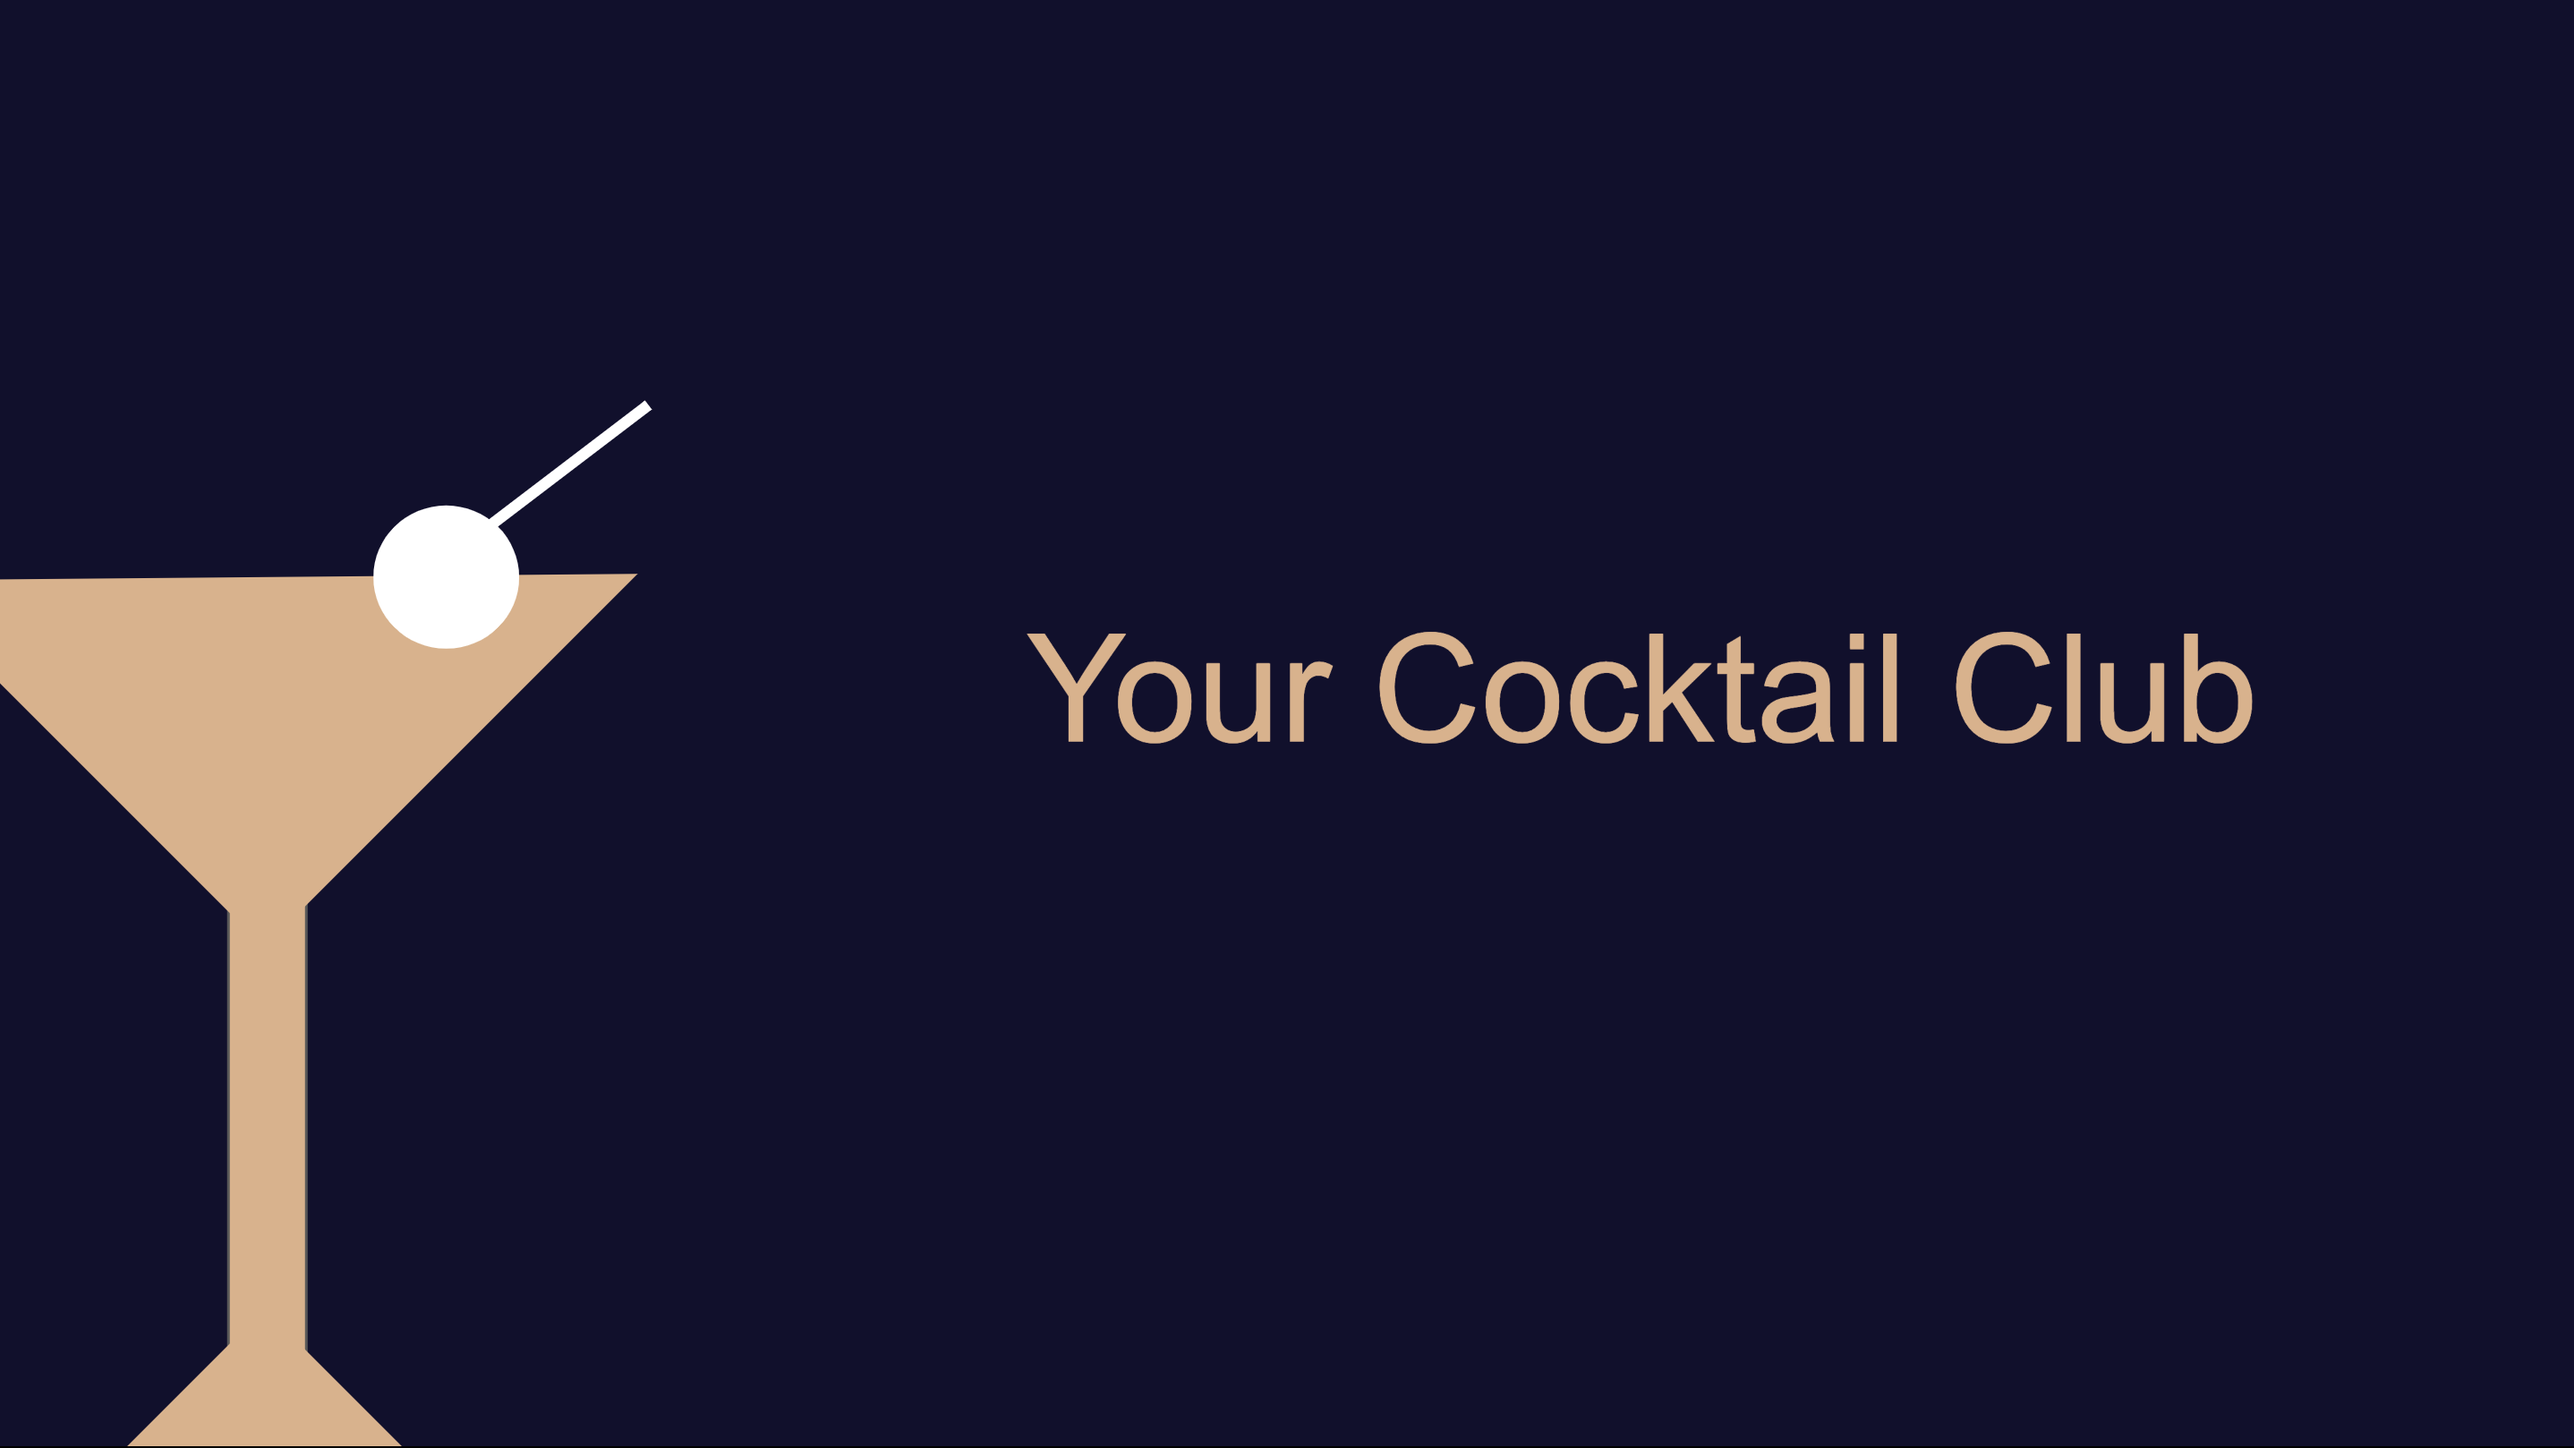
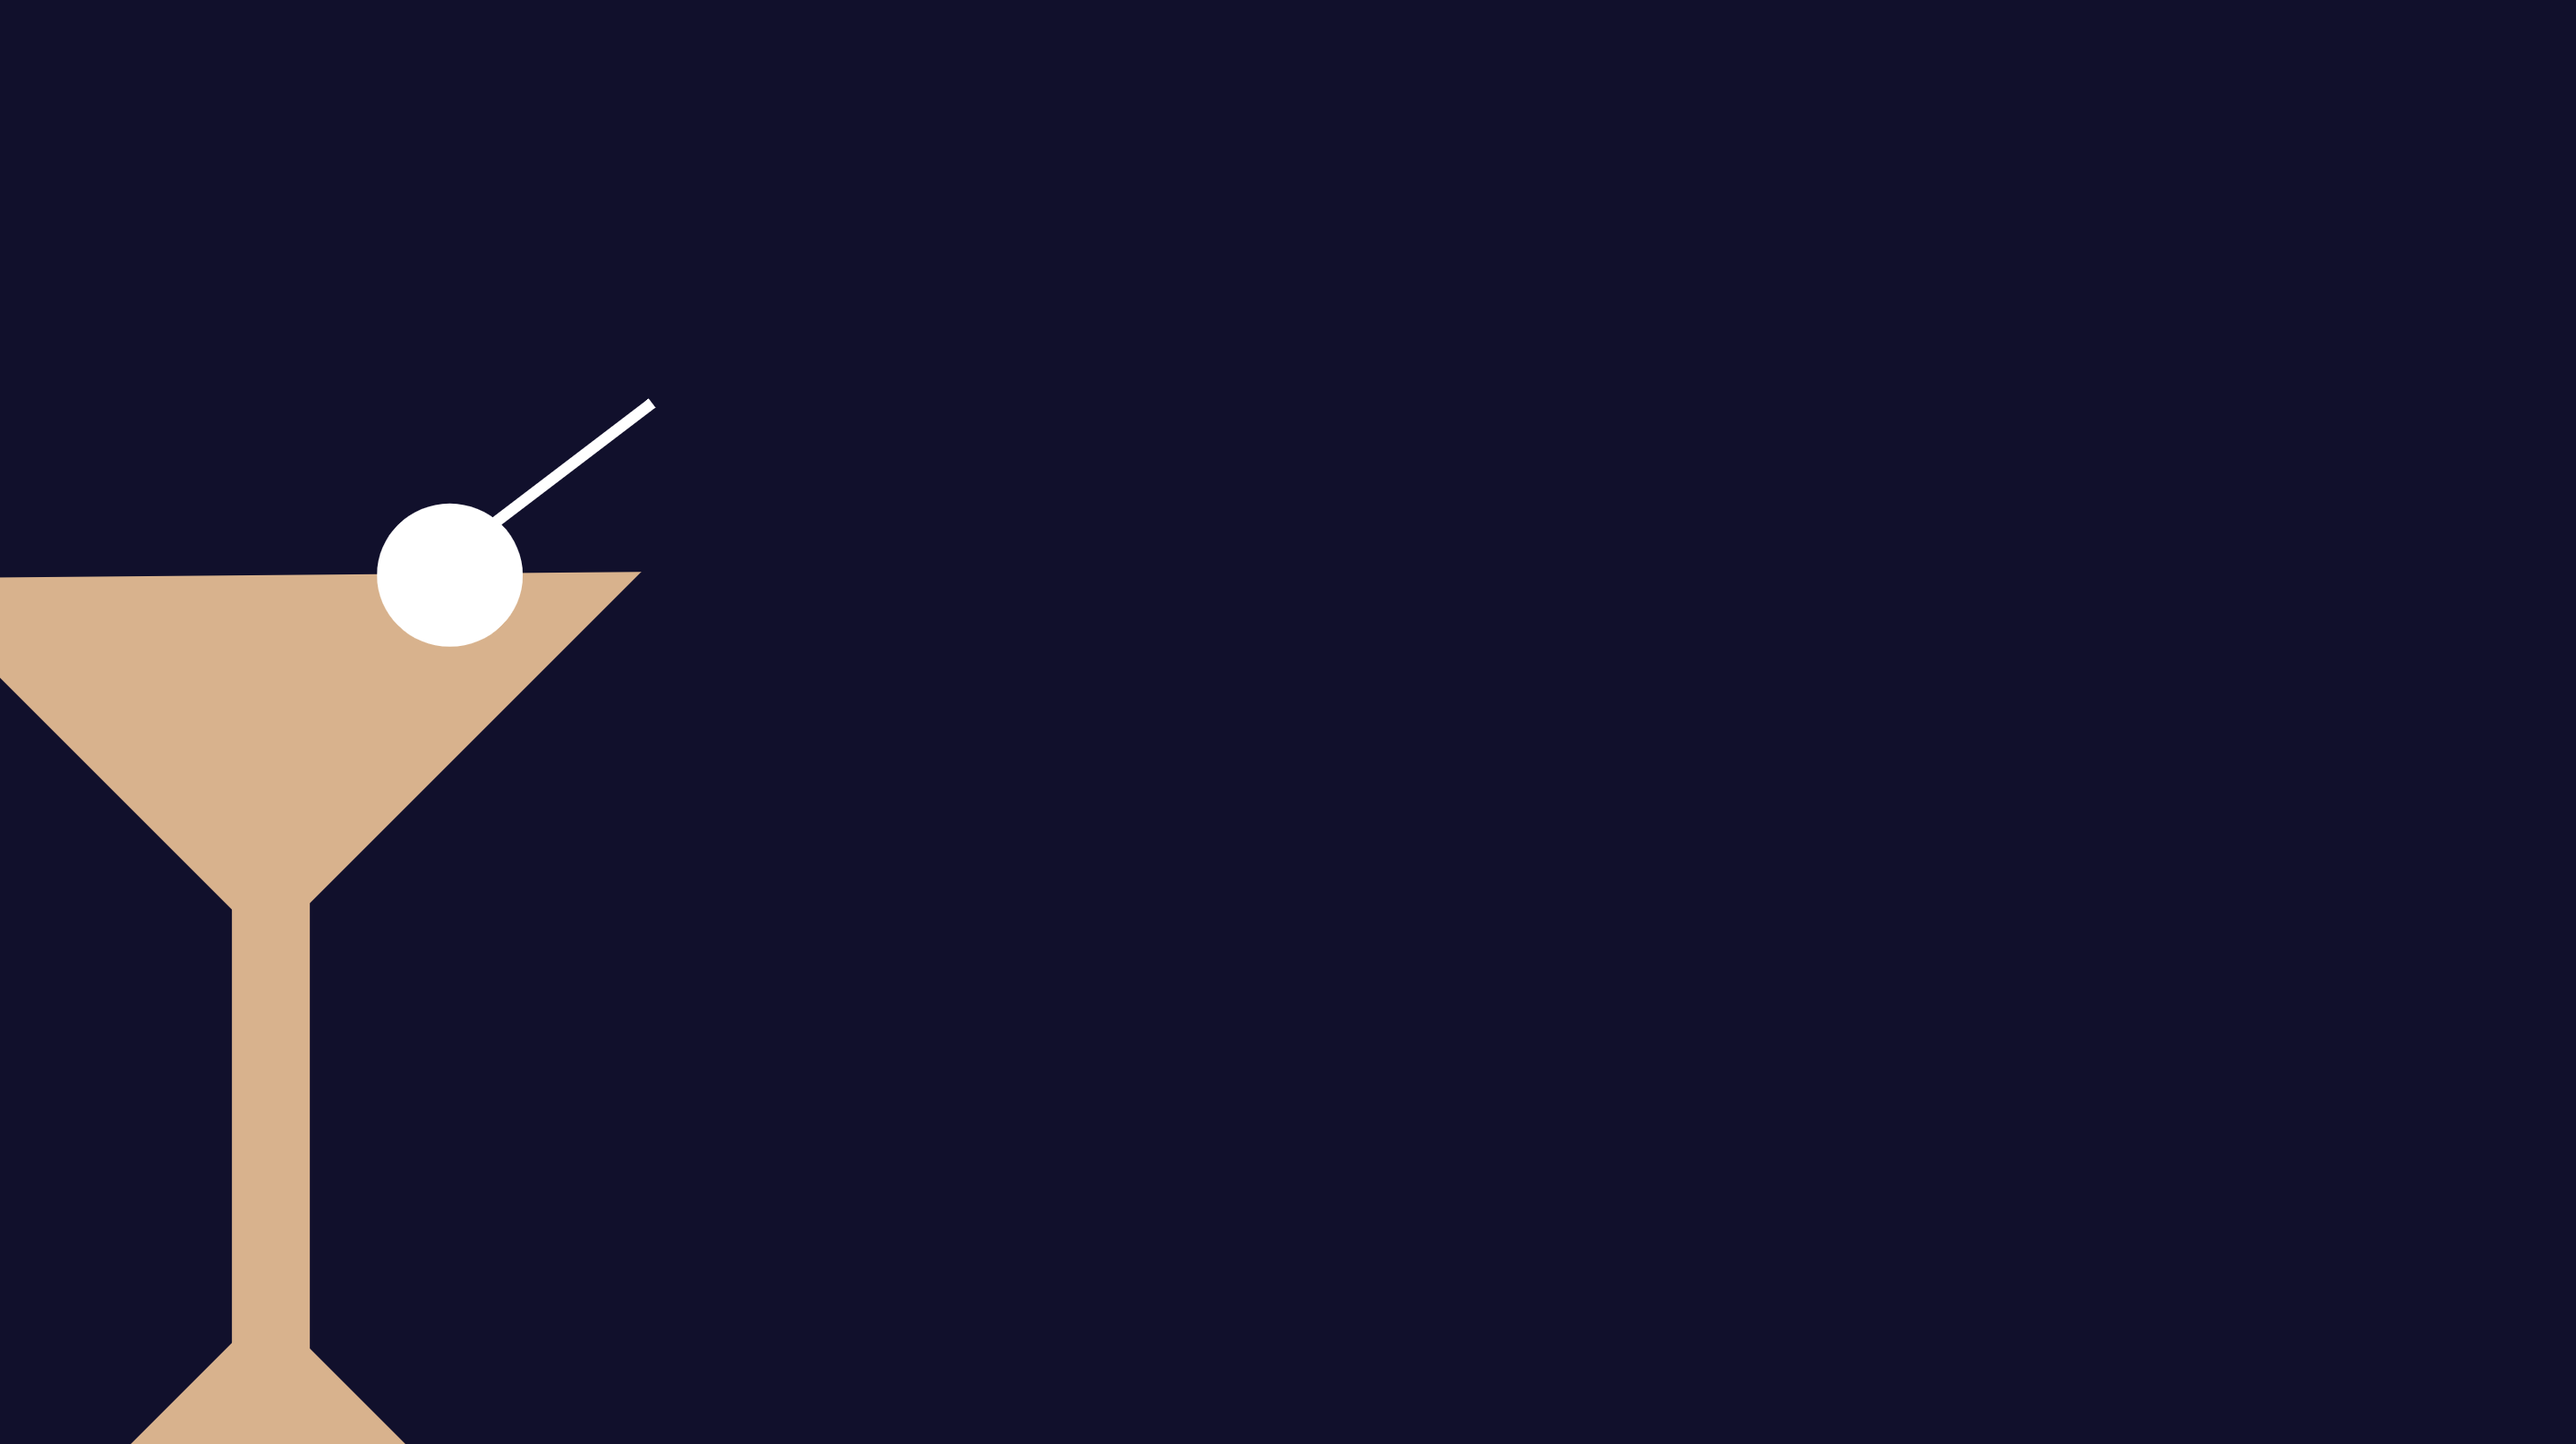
adding responsiveness

Changed region(s): [[0.4023, 0.4337, 0.8974, 0.5266], [0.0, 0.9913, 1.0, 1.0], [0.1857, 0.3408, 0.2166, 0.3717]]

diff --git a/app/assets/stylesheets/components/_font.scss b/app/assets/stylesheets/components/_font.scss
@@ -1,8 +1,51 @@
+h1{
+color: #deb188ff;
+    position: absolute;
+    top: 361px;
+    left: 735px;
+    font-weight: lighter;
+    font-size: 77px;
+    font-family: 'Roboto', sans-serif;
+}
+
 
 h2{
   color: #130F2E;
+      font-family: 'Roboto', sans-serif;
+
 }
 
 i{
   color: #130F2E;
 }
+
+
+@media (max-width: 1140px) {
+  /* For a screen < 540px, this CSS will be read */
+  h1 {
+  position: absolute;
+  top: 400px;
+  left: 300px;
+  font-weight: lighter;
+  font-size: 50px;
+
+  }
+}
+
+
+@media (max-width: 540px) {
+  /* For a screen < 540px, this CSS will be read */
+  h1 {
+    width: 300px;
+    margin: auto;
+    position: absolute;
+    top: 121px;
+    left: 5px;
+    text-align: center;
+    font-size: 49px;
+
+
+  }
+}
+
+

diff --git a/app/javascript/packs/application.js b/app/javascript/packs/application.js
@@ -16,3 +16,20 @@ import 'bootstrap';
 //
 // const images = require.context('../images', true)
 // const imagePath = (name) => images(name, true)
+
+
+import { initSweetalert } from '../plugins/init_sweetalert';
+
+initSweetalert('#sweet-alert-demo', {
+  title: "Are you sure?",
+  text: "Are you sure you want to delete this cocktail ?",
+  icon: "warning",
+  buttons: true,
+  dangerMode: true,
+}, (value) => {
+  if (value) {
+    const link = document.querySelector('#delete-link');
+    link.click();
+  }
+});
+

diff --git a/app/assets/stylesheets/components/_card.scss b/app/assets/stylesheets/components/_card.scss
@@ -12,5 +12,30 @@
   border-radius: 5px;
   box-shadow: 0 0 15px rgba(0,0,0,0.2);
   margin-top: 20px;
-  margin-bottom: 40px;
+  margin-bottom: 30px;
+  position: relative;
 }
+
+.card-category:hover {
+  opacity: 0.8;
+}
+
+.card-category a{
+  color: white;
+}
+
+
+.delete-btn{
+  position: absolute;
+  top: 3px;
+  right: 11px;
+  border-radius: 50%;
+  background-color: white;
+  font-size: 12px;
+  width: 23px;
+  padding: 3px;
+  text-align: center;
+  opacity: 0.5;
+}
+
+

diff --git a/app/javascript/plugins/init_sweetalert.js b/app/javascript/plugins/init_sweetalert.js
@@ -1,0 +1,12 @@
+import swal from 'sweetalert';
+
+const initSweetalert = (selector, options = {}, callback = () => {}) => {
+  const swalButton = document.querySelector(selector);
+  if (swalButton) { // protect other pages
+    swalButton.addEventListener('click', () => {
+      swal(options).then(callback); // <-- add the `.then(callback)`
+    });
+  }
+};
+
+export { initSweetalert };

diff --git a/app/assets/stylesheets/components/_background.scss b/app/assets/stylesheets/components/_background.scss
@@ -16,3 +16,14 @@ background-image: url("create-background.png");
 height: 100vh;
 background-size: cover;
 }
+
+
+@media (max-width: 940px) {
+  /* For a screen < 540px, this CSS will be read */
+.create-background {
+background-image: url("");
+background-color: #deb188ff;
+height: 100vh;
+background-size: cover;
+}
+}

diff --git a/app/assets/stylesheets/components/_index.scss b/app/assets/stylesheets/components/_index.scss
@@ -5,5 +5,6 @@
 @import "background";
 @import "card";
 @import "plus-btn";
-@import "font"
-
+@import "font";
+@import "add-form";
+@import url('https://fonts.googleapis.com/css2?family=Roboto:wght@300&display=swap')

diff --git a/app/assets/stylesheets/application.scss b/app/assets/stylesheets/application.scss
@@ -12,6 +12,7 @@
 @import "components/index";
 @import "pages/index";
 
+
 body{
   background-color: #deb188ff ;
 }
@@ -21,6 +22,4 @@ a:hover{
 }
 
 
-.margin-top-navbar{
-margin-top: 60px;
-}
+

diff --git a/app/assets/stylesheets/components/_plus-btn.scss b/app/assets/stylesheets/components/_plus-btn.scss
@@ -7,6 +7,7 @@
     padding: 19px;
     text-align: center;
     font-size: 28px;
+    margin-bottom: 10px;
 }
 
 .fixed-right{

diff --git a/app/assets/stylesheets/components/_navbar.scss b/app/assets/stylesheets/components/_navbar.scss
@@ -15,4 +15,5 @@
   background-color: #130F2E;
   height: 68px;
   width: 100%;
+  position: fixed;
 }

diff --git a/app/assets/stylesheets/components/_add-form.scss b/app/assets/stylesheets/components/_add-form.scss
@@ -1,0 +1,8 @@
+
+.form-margint{
+margin-top: 250px;
+}
+
+.search-control{
+    width: 150px;
+}
